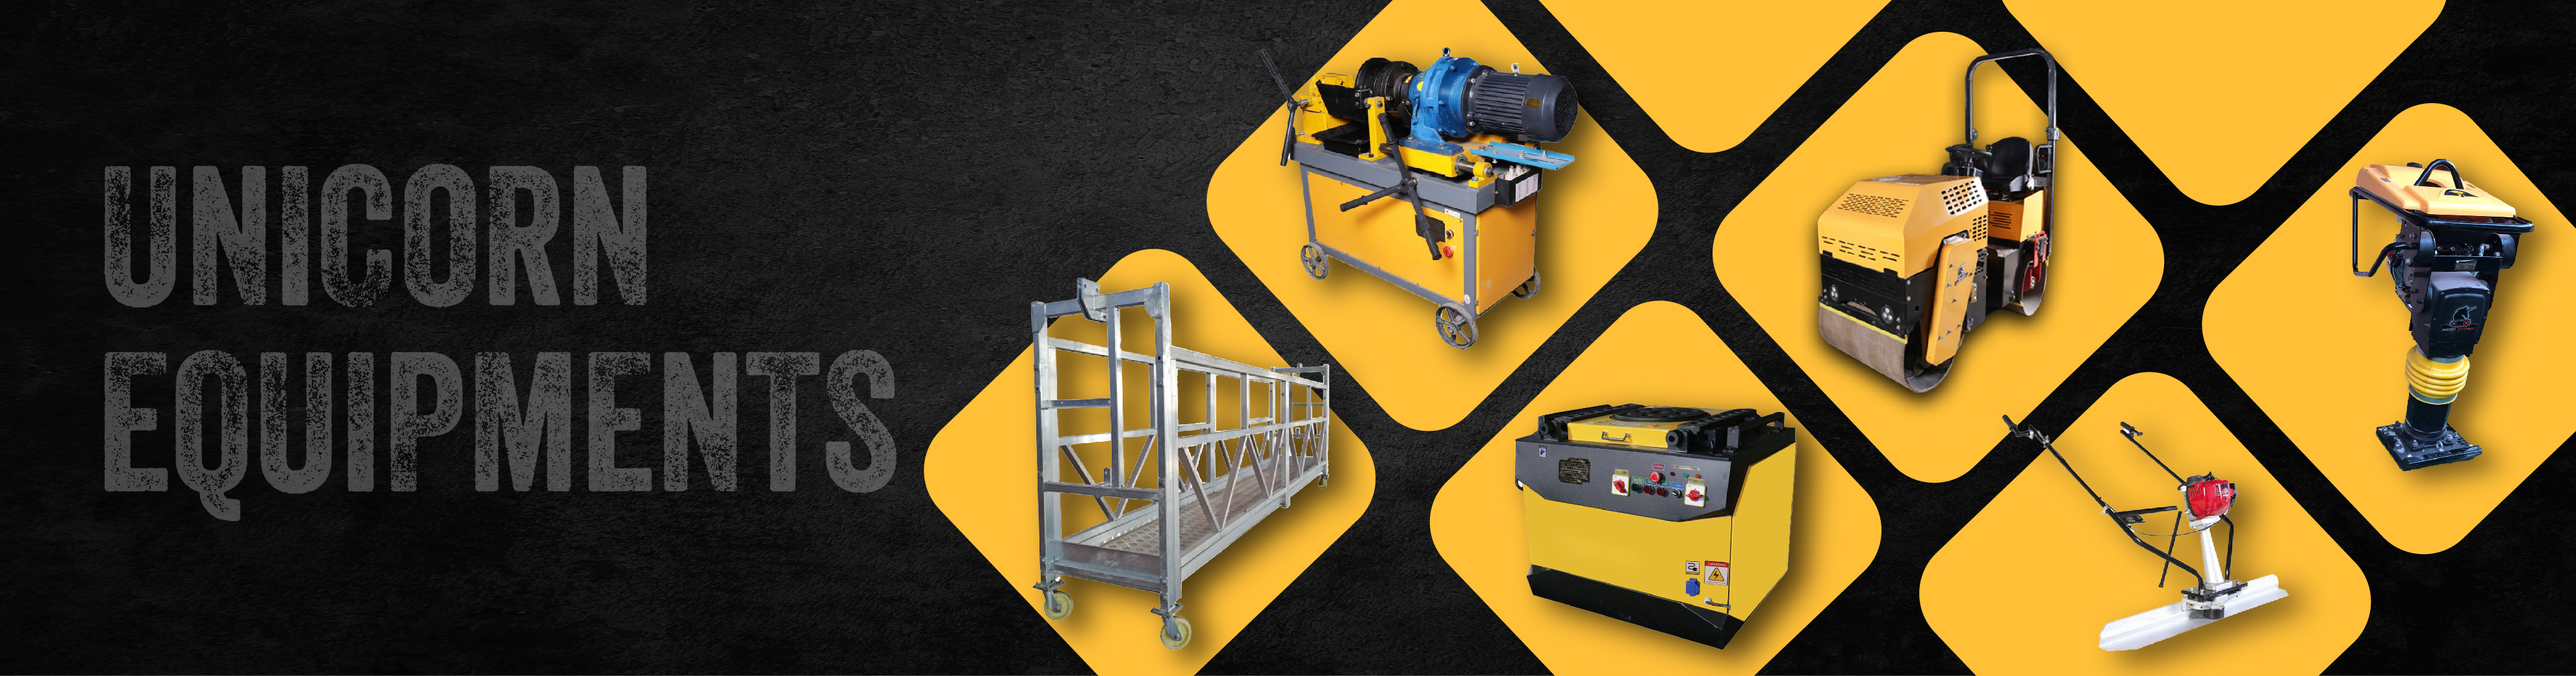
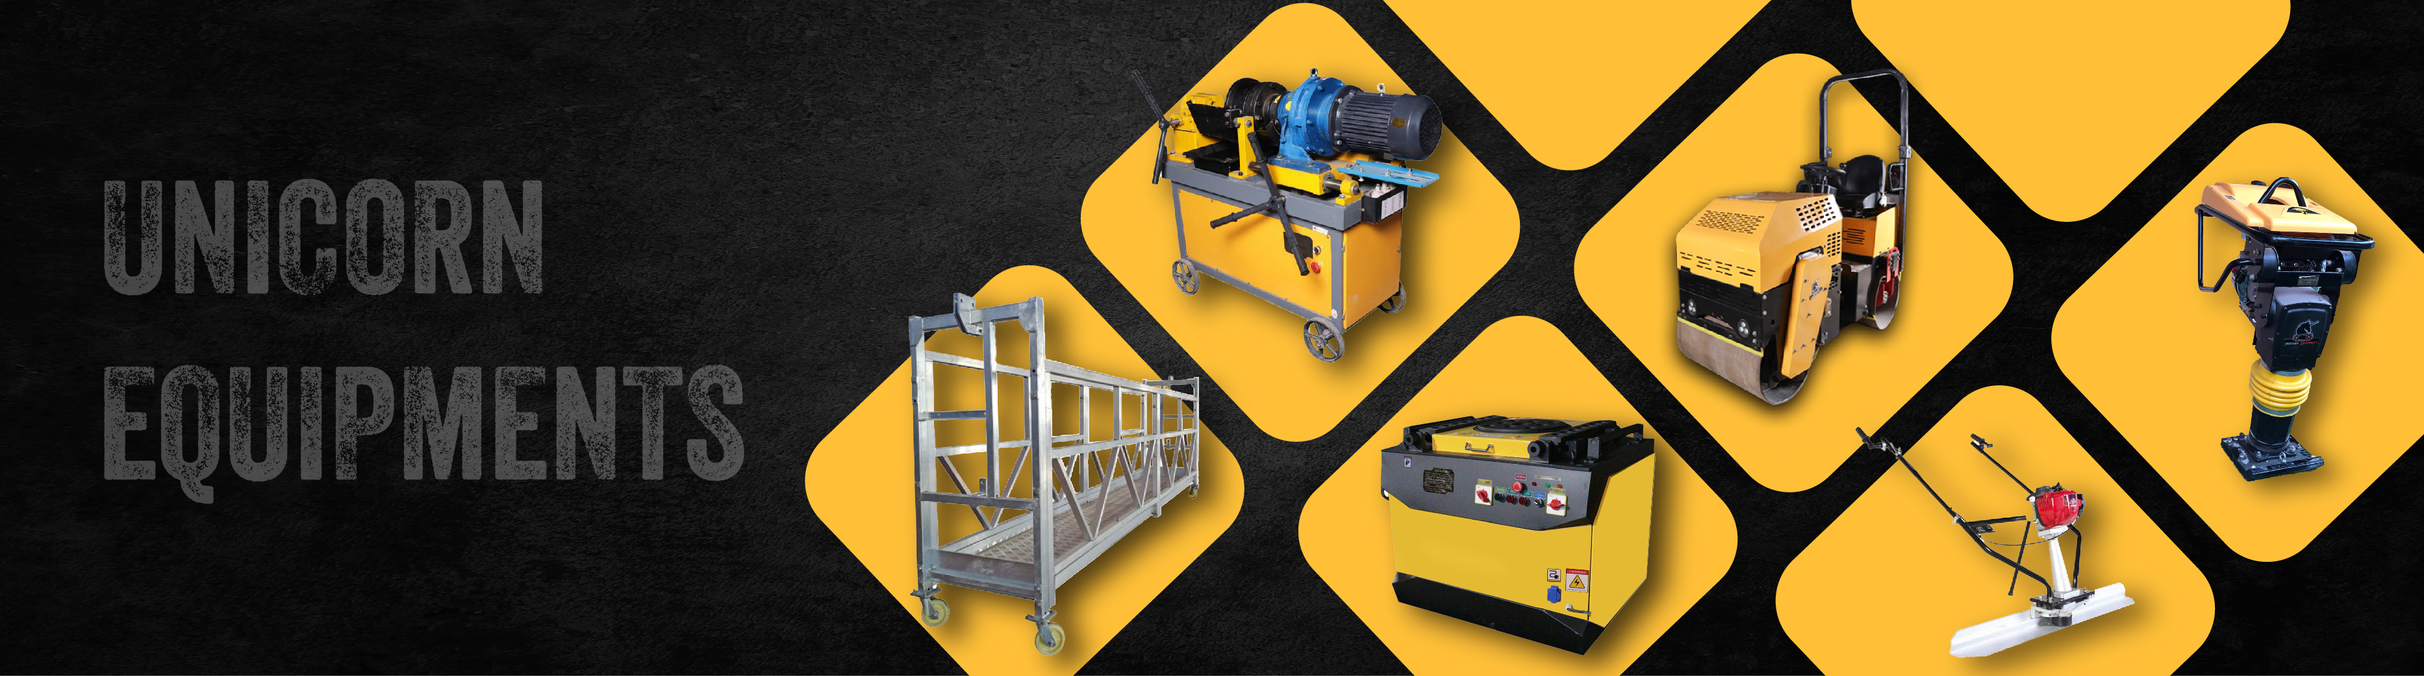
new changes done

diff --git a/assets/css/style_2.css b/assets/css/style_2.css
@@ -22,16 +22,29 @@ body {
 .innerpagebanner {
     height: 480px;
     width: 100%;
-    background-position: center;
+    background-position: center;;
     background-size: cover;
     background-image: url('../img/banner/all_machine.jpg');
+    background-color: rgba(0, 0, 0, 0.4);
     z-index: -1;
+    position:relative;
+}
+.innerpagebanner::before{
+    position: absolute;
+    content: "";
+    width: 100%;
+    height: 100%;
+    left: 0;
+    top: 0;
+    right: 0;
+    z-index: -1;
+    background: rgb(0 0 0 / 36%);
 }
 
 .mainheadertitle {
-    background-color: rgba(0, 0, 0, 0.4);
+    /* background-color: rgba(0, 0, 0, 0.4);
     backdrop-filter: blur(8px);
-    z-index: 1;
+    z-index: 1; */
 }
 
 .mainheadertitle h1 {

diff --git a/team.html b/team.html
@@ -107,7 +107,7 @@
     <!--banner section start-->
     <section class="innerpagebanner d-flex align-items-center">
 
-        <div class="container">
+        <div class="container ">
             <div class="mainheadertitle text-center">
                 <h1>Our <span style="color:white ;">Team</span></h1></h1>
             </div>

diff --git a/sub_machine.html b/sub_machine.html
@@ -110,7 +110,7 @@
 
         <div class="container">
             <div class="mainheadertitle text-center">
-                <h1>Sub Machine</h1>
+                <h1>Sub <span style="color:white ;">Machine</span></h1>
             </div>
         </div>
 
